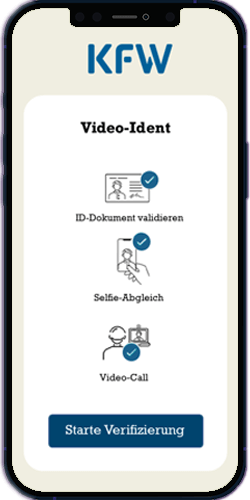
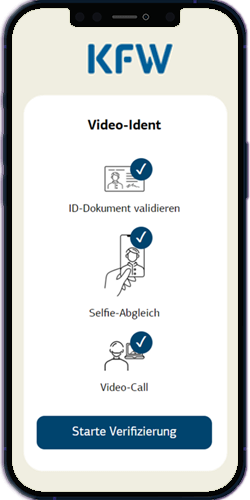
changes 28-11-21

Changed region(s): [[0.28, 0.3, 0.728, 0.78], [0.14, 0.81, 0.868, 0.9], [0.308, 0.24, 0.7, 0.27]]

diff --git a/assets/css/style.scss b/assets/css/style.scss
@@ -87,7 +87,7 @@ ul {
   max-height: 50px;
 }
 .color-bg {
-  background-color: #f0eee1;
+  background-color: #fdf6ef;
   padding: 20px 30px;
   &.flex-space {
     display: flex;

diff --git a/assets/css/style.css b/assets/css/style.css
@@ -92,7 +92,7 @@ ul {
 }
 
 .color-bg {
-  background-color: #f0eee1;
+  background-color: #fdf6ef;
   padding: 20px 30px;
 }
 
